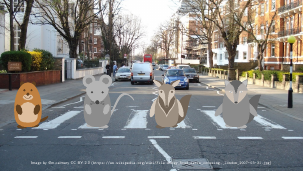
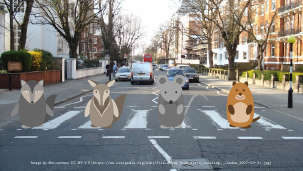
abbey road: change order of tikzlings

diff --git a/samcarter/abbeyroad/include/walking.tex b/samcarter/abbeyroad/include/walking.tex
@@ -4,22 +4,22 @@
 \begin{document}
 
 \begin{tikzpicture}
-  \marmot[leftstep]
-  \mouse[rightstep,xshift=3cm]
-  \anteater[leftstep,xshift=6cm]
-  \wolf[rightstep,xshift=9cm]
+  \wolf[leftstep,body=gray!80!black]
+  \anteater[rightstep,xshift=3cm]
+  \mouse[leftstep,xshift=6cm,body=gray!90!black]
+  \marmot[rightstep,xshift=9cm]
 \end{tikzpicture}
 \begin{tikzpicture}
-  \marmot[rightstep]
-  \mouse[leftstep,xshift=3cm]
-  \anteater[rightstep,xshift=6cm]
-  \wolf[leftstep,xshift=9cm]
+  \wolf[rightstep,body=gray!80!black]
+  \anteater[leftstep,xshift=3cm]
+  \mouse[rightstep,xshift=6cm,body=gray!90!black]
+  \marmot[leftstep,xshift=9cm]
 \end{tikzpicture}
 \begin{tikzpicture}
-  \marmot
-  \mouse[xshift=3cm]
-  \anteater[xshift=6cm]
-  \wolf[xshift=9cm]
+  \wolf[body=gray!80!black]
+  \anteater[xshift=3cm]
+  \mouse[xshift=6cm,body=gray!90!black]
+  \marmot[xshift=9cm]
 \end{tikzpicture}
 
 \end{document}
